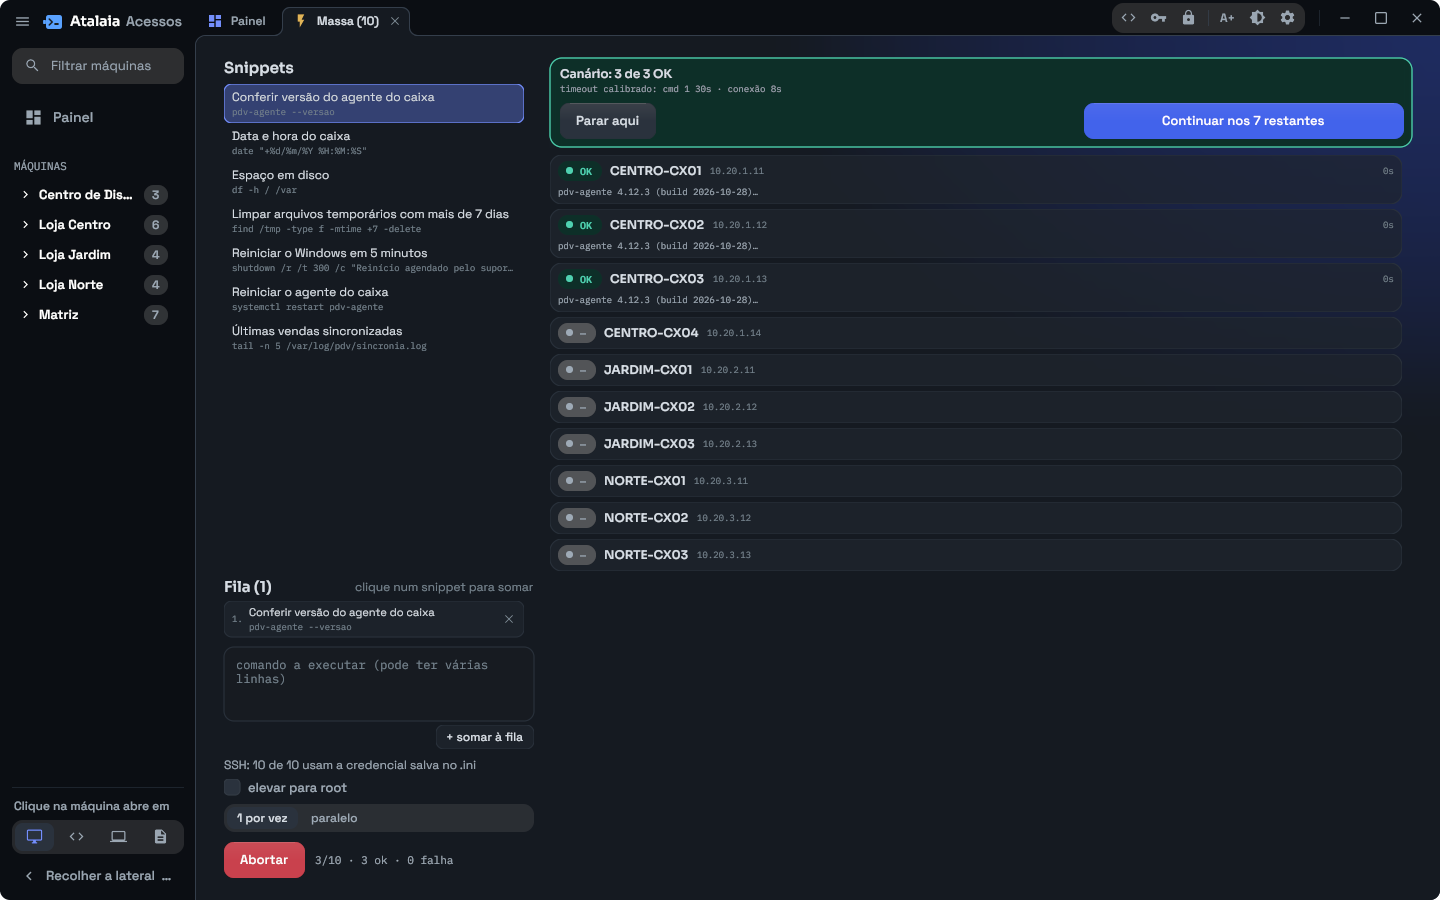
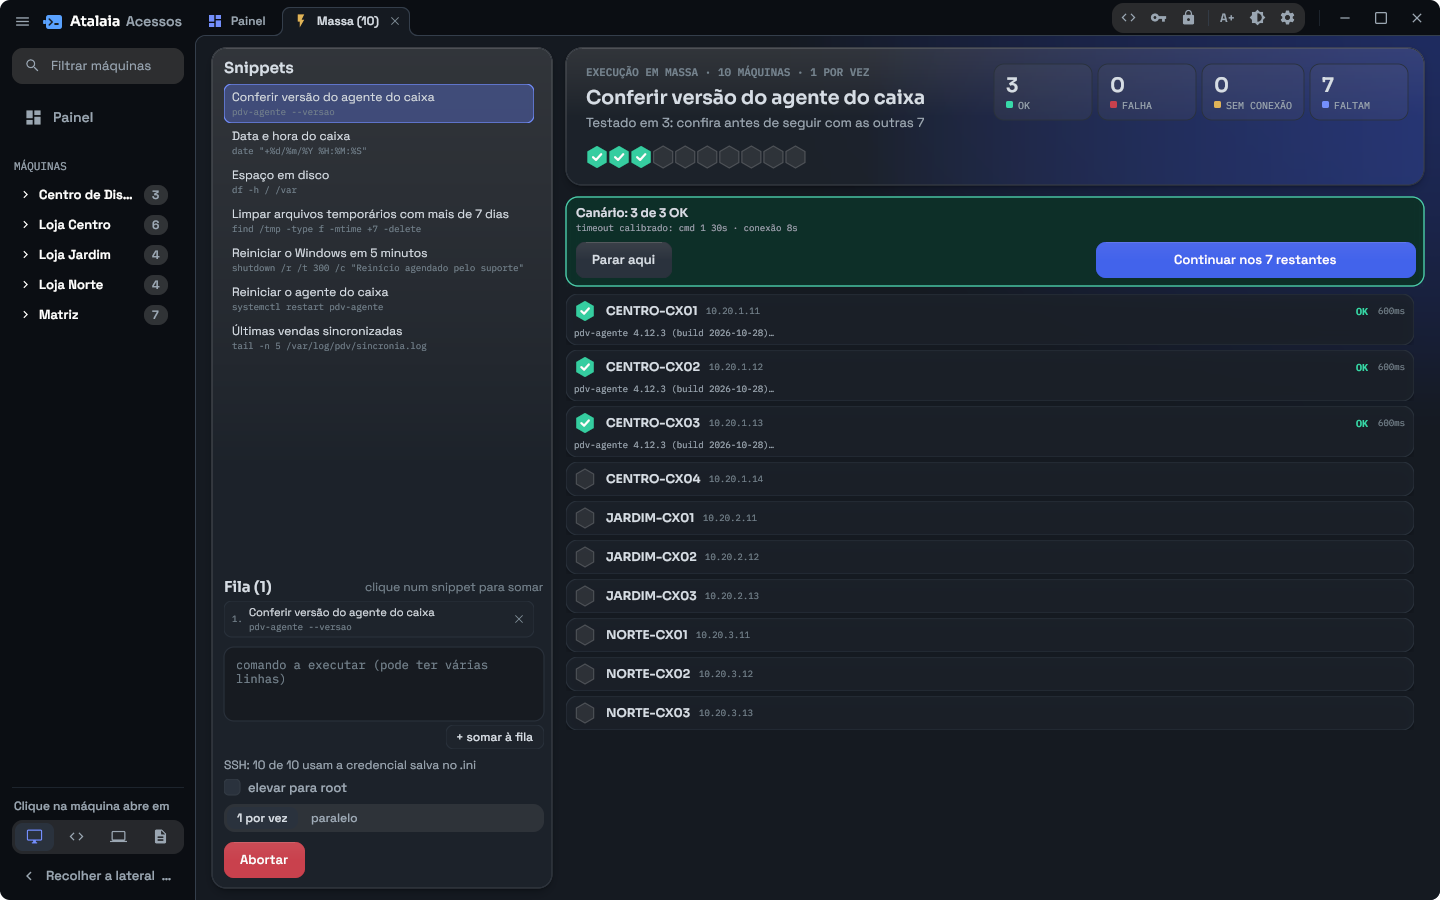
2.9.2: notas, documentação e prints com a massa nova, os gestos do terminal e o tema claro

diff --git a/docs/uso.md b/docs/uso.md
@@ -76,6 +76,27 @@ O menu **Teclas** envia combinações que o computador local pegaria para si:
 A área de transferência de texto é compartilhada com a tela e o RDP: copiar de
 um lado e colar do outro funciona nos dois sentidos.
 
+### Terminal (SSH)
+
+- **Clique** leva o cursor até onde se clicou: no nano, no vim e em outros
+  programas de tela cheia, até a linha e a coluna; no prompt do shell, só
+  na mesma linha (seta para cima puxaria o histórico). Quando o programa
+  pede o mouse (htop, mc, nano com `set mouse`), o clique vai para ele.
+- **Duplo clique** marca a palavra (um caminho, um IP ou um usuário@máquina
+  inteiros), **triplo clique** marca a linha, e arrastar marca um trecho.
+- **Botão direito** traz Copiar, Colar e Copiar a tela inteira.
+  `Ctrl+Shift+C` e `Ctrl+Shift+V` também copiam e colam.
+- **Colar várias linhas** num programa que não protege a colagem pergunta
+  antes, mostrando o começo do texto: no shell, cada linha roda como
+  comando assim que chega.
+- **A roda do mouse** rola o histórico; em programa de tela cheia (nano,
+  less, man) ela anda pelo texto, como as setas. `Ctrl+roda` muda o tamanho
+  da letra.
+
+A sessão manda um sinal de vida a cada 30 segundos. Rede de loja costuma
+derrubar conexão parada sem avisar; sem resposta a três sinais seguidos, a
+aba mostra que a conexão caiu e oferece o Reconectar. O SFTP faz o mesmo.
+
 ### Arquivos (SFTP)
 
 ![SFTP](../screenshots/sftp.png)

diff --git a/docs/execucao-em-massa.md b/docs/execucao-em-massa.md
@@ -23,8 +23,16 @@ marcadas.
   estiver escrito ali conta como o último comando da fila, mesmo sem clicar em
   **+ somar à fila**.
 
-À direita fica cada máquina, com o estado, a primeira linha da saída e o tempo
-que levou. Clicar numa linha mostra a saída inteira.
+À direita, no alto, o cartão da execução diz o que está rodando, em que pé
+está (rodando, testado em 3, parado numa falha, concluída em quanto tempo) e
+conta OK, falha, sem conexão e o que falta. Dentro dele fica a colmeia: um
+favo por máquina, na cor do estado — pulsando em azul enquanto roda, verde
+com ✓, vermelho com × na falha, âmbar na sem conexão. Ela mostra um lote de
+centenas de máquinas de relance; passar o mouse num favo diz qual máquina é,
+e clicar abre a saída dela.
+
+Embaixo, cada máquina numa linha, com o mesmo favo, a primeira linha da
+saída e o tempo que levou. Clicar numa linha também mostra a saída inteira.
 
 ## Credenciais
 

diff --git a/README.md b/README.md
@@ -50,7 +50,8 @@ Roda no Linux (Flatpak) e no Windows, a partir do mesmo código.
 ## Telas
 
 **Terminal SSH**, com os snippets ao lado: um clique manda o comando para a
-sessão.
+sessão. Clicar no texto leva o cursor até ali (no nano e no vim também),
+duplo clique marca a palavra e o botão direito copia e cola.
 
 ![Terminal SSH num servidor de arquivos, com a lista de snippets à direita](screenshots/ssh.png)
 
@@ -64,7 +65,8 @@ dela), ou dê dois cliques no arquivo.
 
 ![Dois arquivos sendo arrastados para a pasta backups do servidor](screenshots/sftp.png)
 
-**Execução em massa.** O comando roda primeiro em três máquinas; só depois
+**Execução em massa.** A colmeia mostra o lote inteiro de relance, um favo
+por máquina na cor do estado. O comando roda primeiro em três máquinas; só depois
 que você confere o resultado ele segue para as outras, uma por vez ou em
 paralelo.
 
